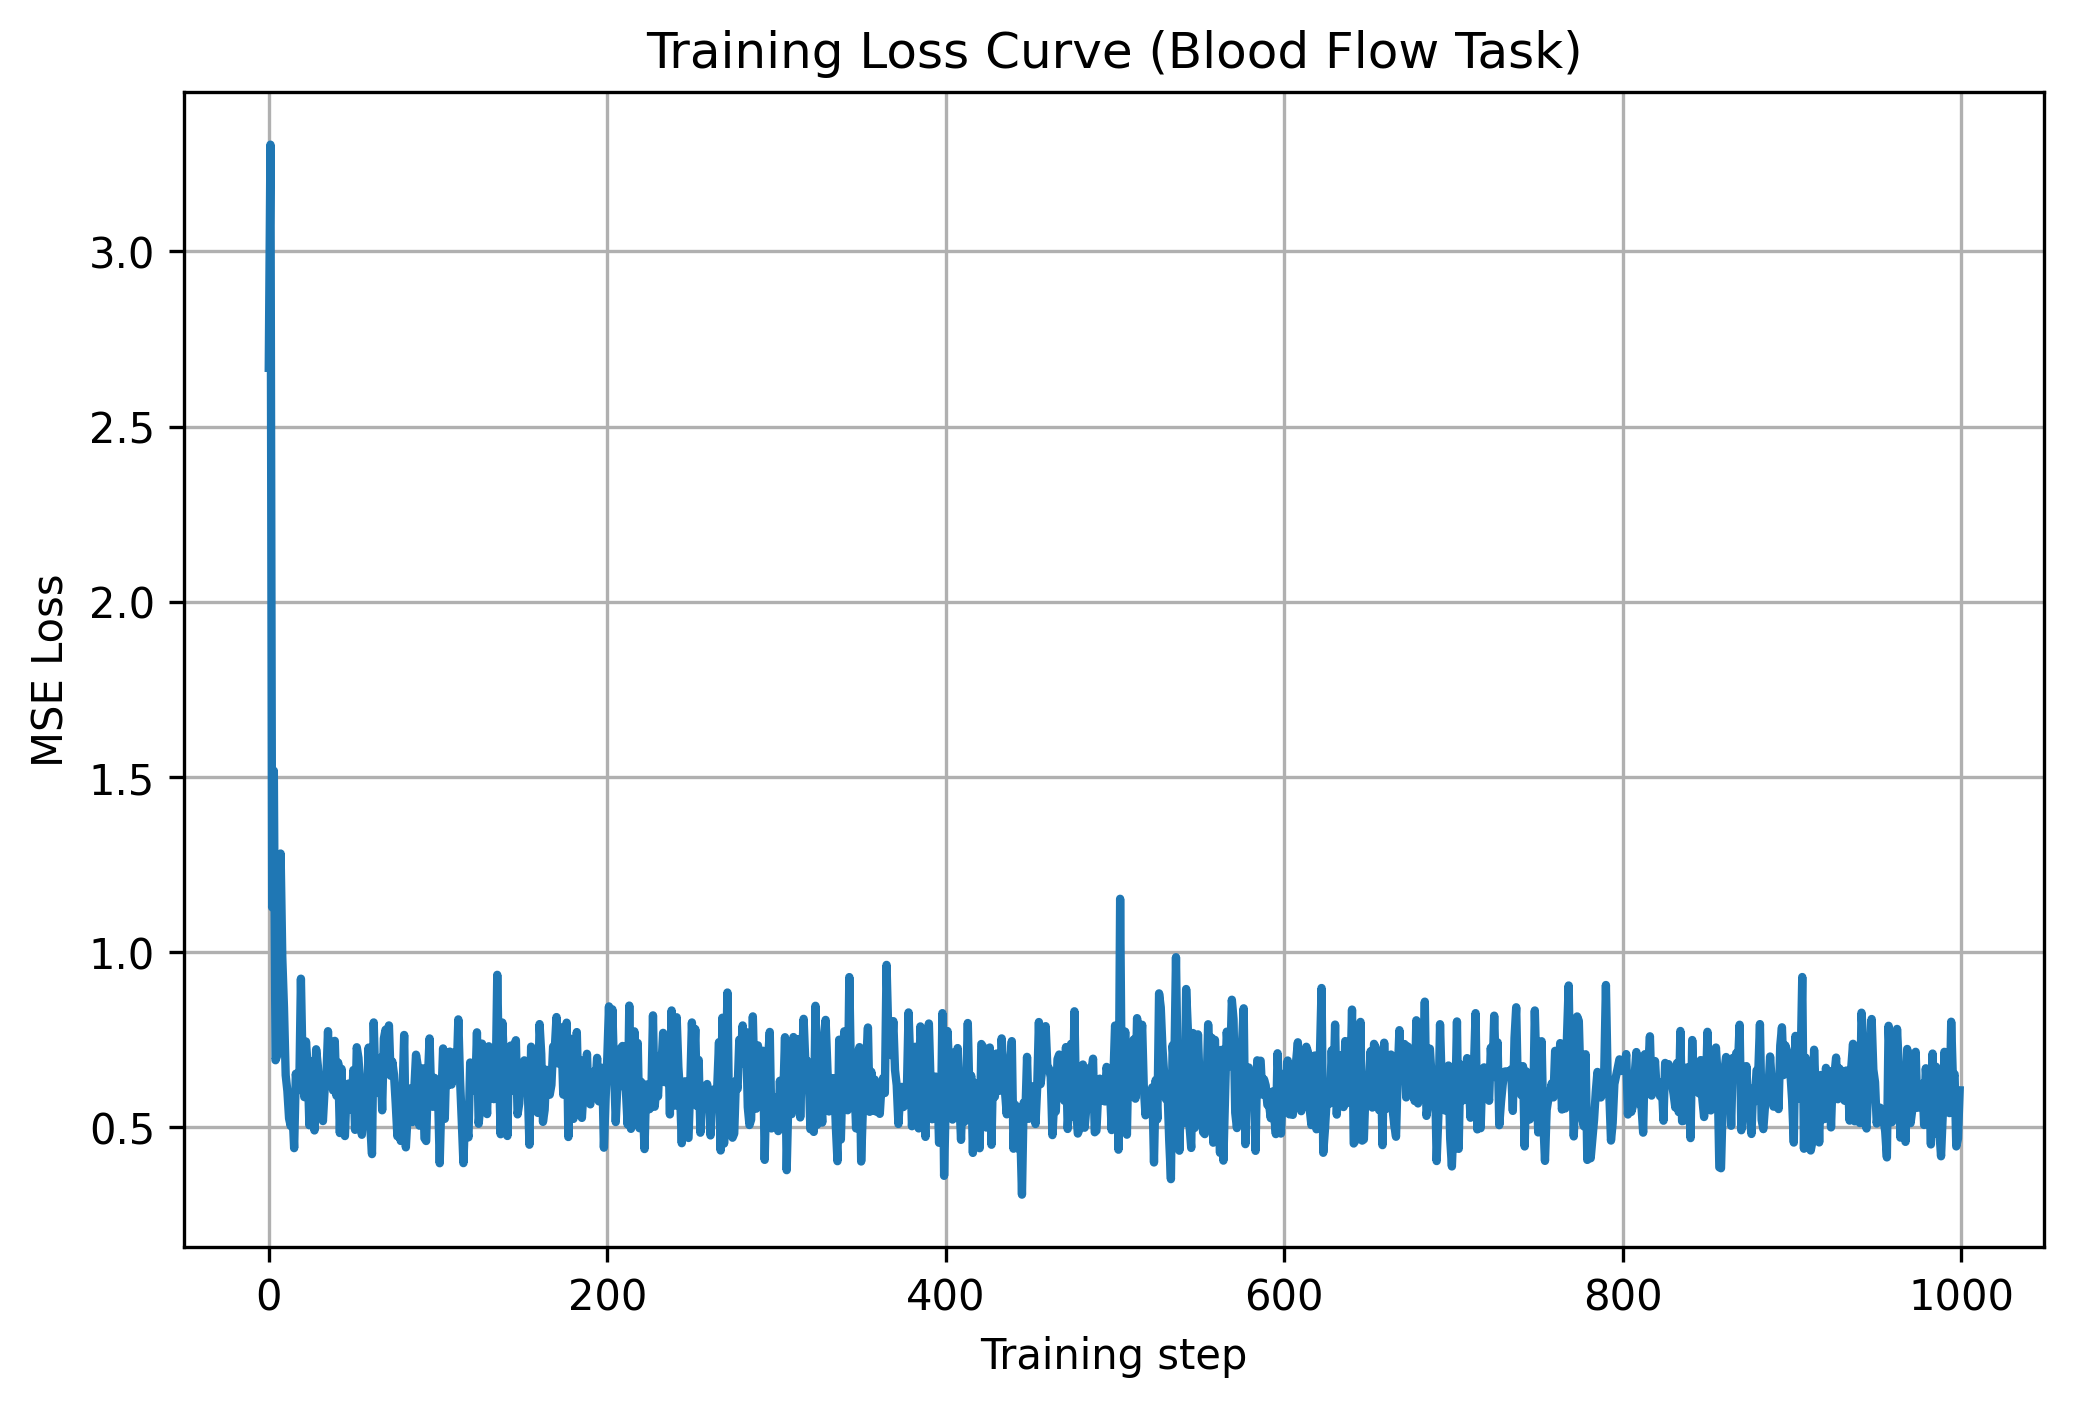
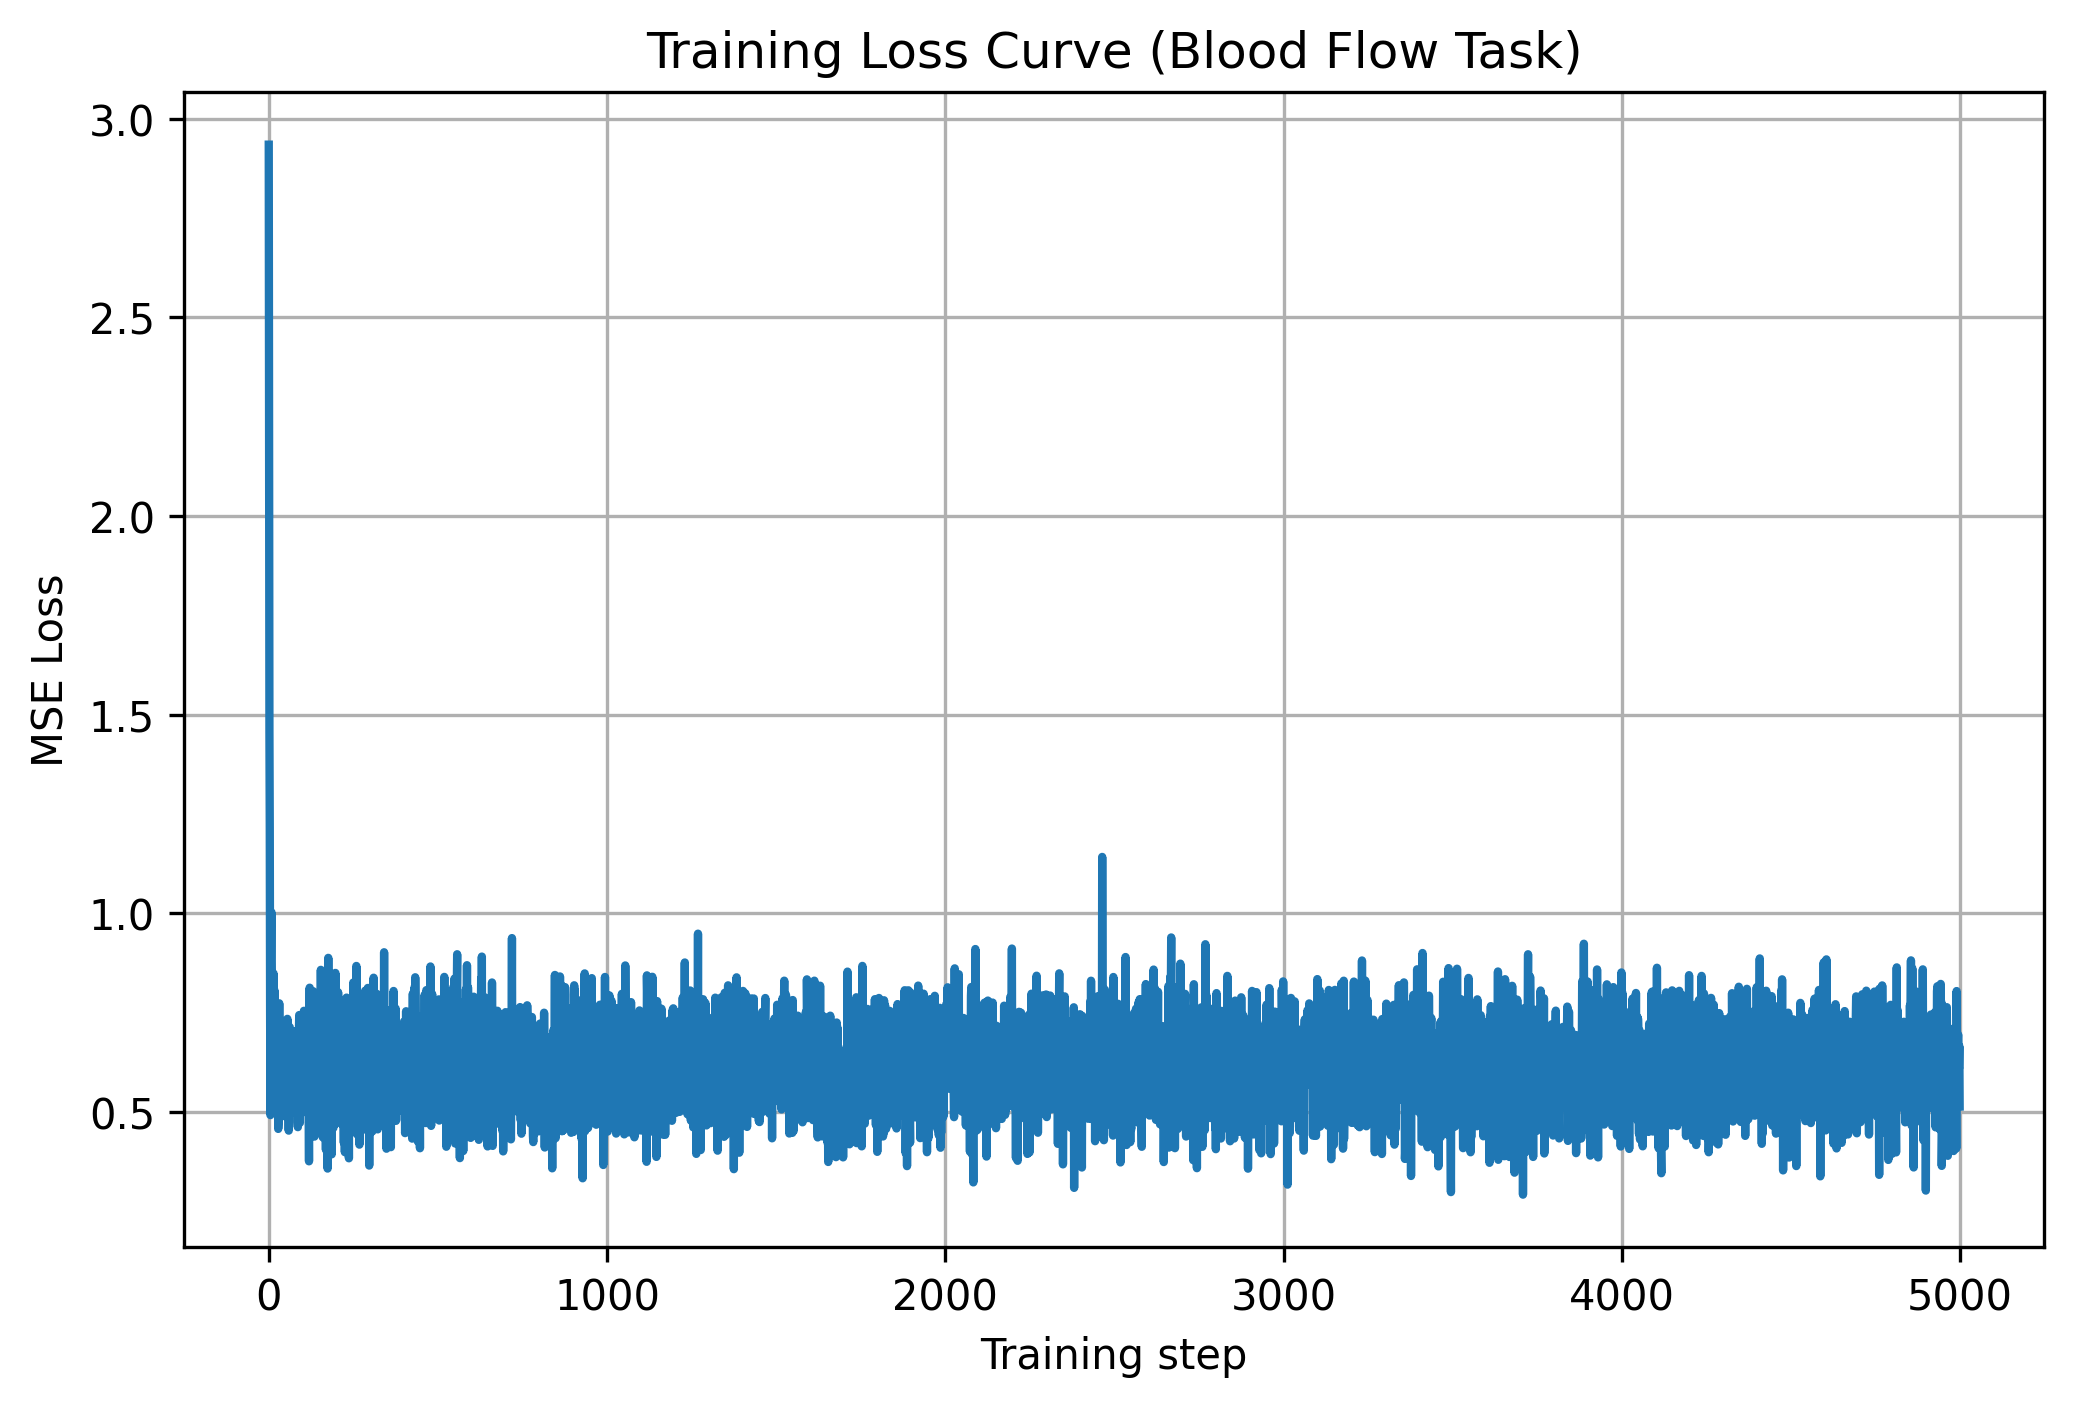
[feat] lr sweep code

diff --git a/src/train_lr_sweep.py b/src/train_lr_sweep.py
@@ -1,0 +1,49 @@
+import os
+import yaml
+import uuid
+import numpy as np
+import argparse
+from schema import load_config, dict_to_namespace
+from train import main as train_main
+from train import loss_history
+import torch
+
+LR_LIST = [1e-5, 3e-5, 1e-4, 3e-4, 1e-3]
+
+def run_sweep(base_config_path):
+    curves = {}
+    
+    for lr in LR_LIST:
+        print(f"Training with LR = {lr}")
+        config_dict = load_config(base_config_path)
+        args = dict_to_namespace(config_dict)
+        args.training.learning_rate = lr
+        args.training.train_steps = 1000
+        run_id = f"lr_{lr}_{uuid.uuid4()}"
+        out_dir = os.path.join(args.out_dir, run_id)
+        os.makedirs(out_dir, exist_ok=True)
+        args.out_dir = out_dir
+
+        config_save_path = os.path.join(out_dir, "config.yaml")
+        with open(config_save_path, "w") as f:
+            yaml.dump(config_dict, f)
+        loss_history.clear()
+
+        train_main(args, config_dict)
+
+        curves[lr] = np.array(loss_history)
+
+        np.save(os.path.join(out_dir, "loss.npy"), curves[lr])
+        print(f"[INFO] Completed LR = {lr}. Saved loss to {out_dir}/loss.npy")
+
+    return curves
+
+
+if __name__ == "__main__":
+    parser = argparse.ArgumentParser()
+    parser.add_argument("--config", type=str, required=True)
+    args = parser.parse_args()
+
+    all_curves = run_sweep(args.config)
+    np.save("lr_sweep_curves.npy", all_curves)
+    print("[INFO] Saved all curves to lr_sweep_curves.npy")

diff --git a/src/plot_lr_sweep.py b/src/plot_lr_sweep.py
@@ -1,0 +1,20 @@
+import numpy as np
+import matplotlib.pyplot as plt
+
+curves = np.load("lr_sweep_curves.npy", allow_pickle=True).item()
+
+plt.figure(figsize=(8, 5))
+
+for lr, loss_curve in curves.items():
+    plt.plot(loss_curve[:1000], label=f"LR = {lr}", linewidth=2)
+
+plt.xlabel("Training Step")
+plt.ylabel("MSE Loss")
+plt.title("Learning Rate Sweep (1k steps)")
+plt.grid(True)
+plt.legend()
+
+plt.savefig("lr_sweep.png", dpi=300, bbox_inches="tight")
+plt.close()
+
+print("[INFO] Saved LR sweep plot → lr_sweep.png")

diff --git a/src/plot_loss_curve.py b/src/plot_loss_curve.py
@@ -2,7 +2,7 @@ import numpy as np
 import matplotlib.pyplot as plt
 import os
 
-loss_path = "models/blood_flow/906b023d-906d-420d-ac47-4eb4a237f3bb/loss.npy"
+loss_path = "models/blood_flow/f484083d-8ee1-488f-93a4-2434539f0af1/loss.npy"
 loss = np.load(loss_path)
 
 plt.figure(figsize=(8, 5))
